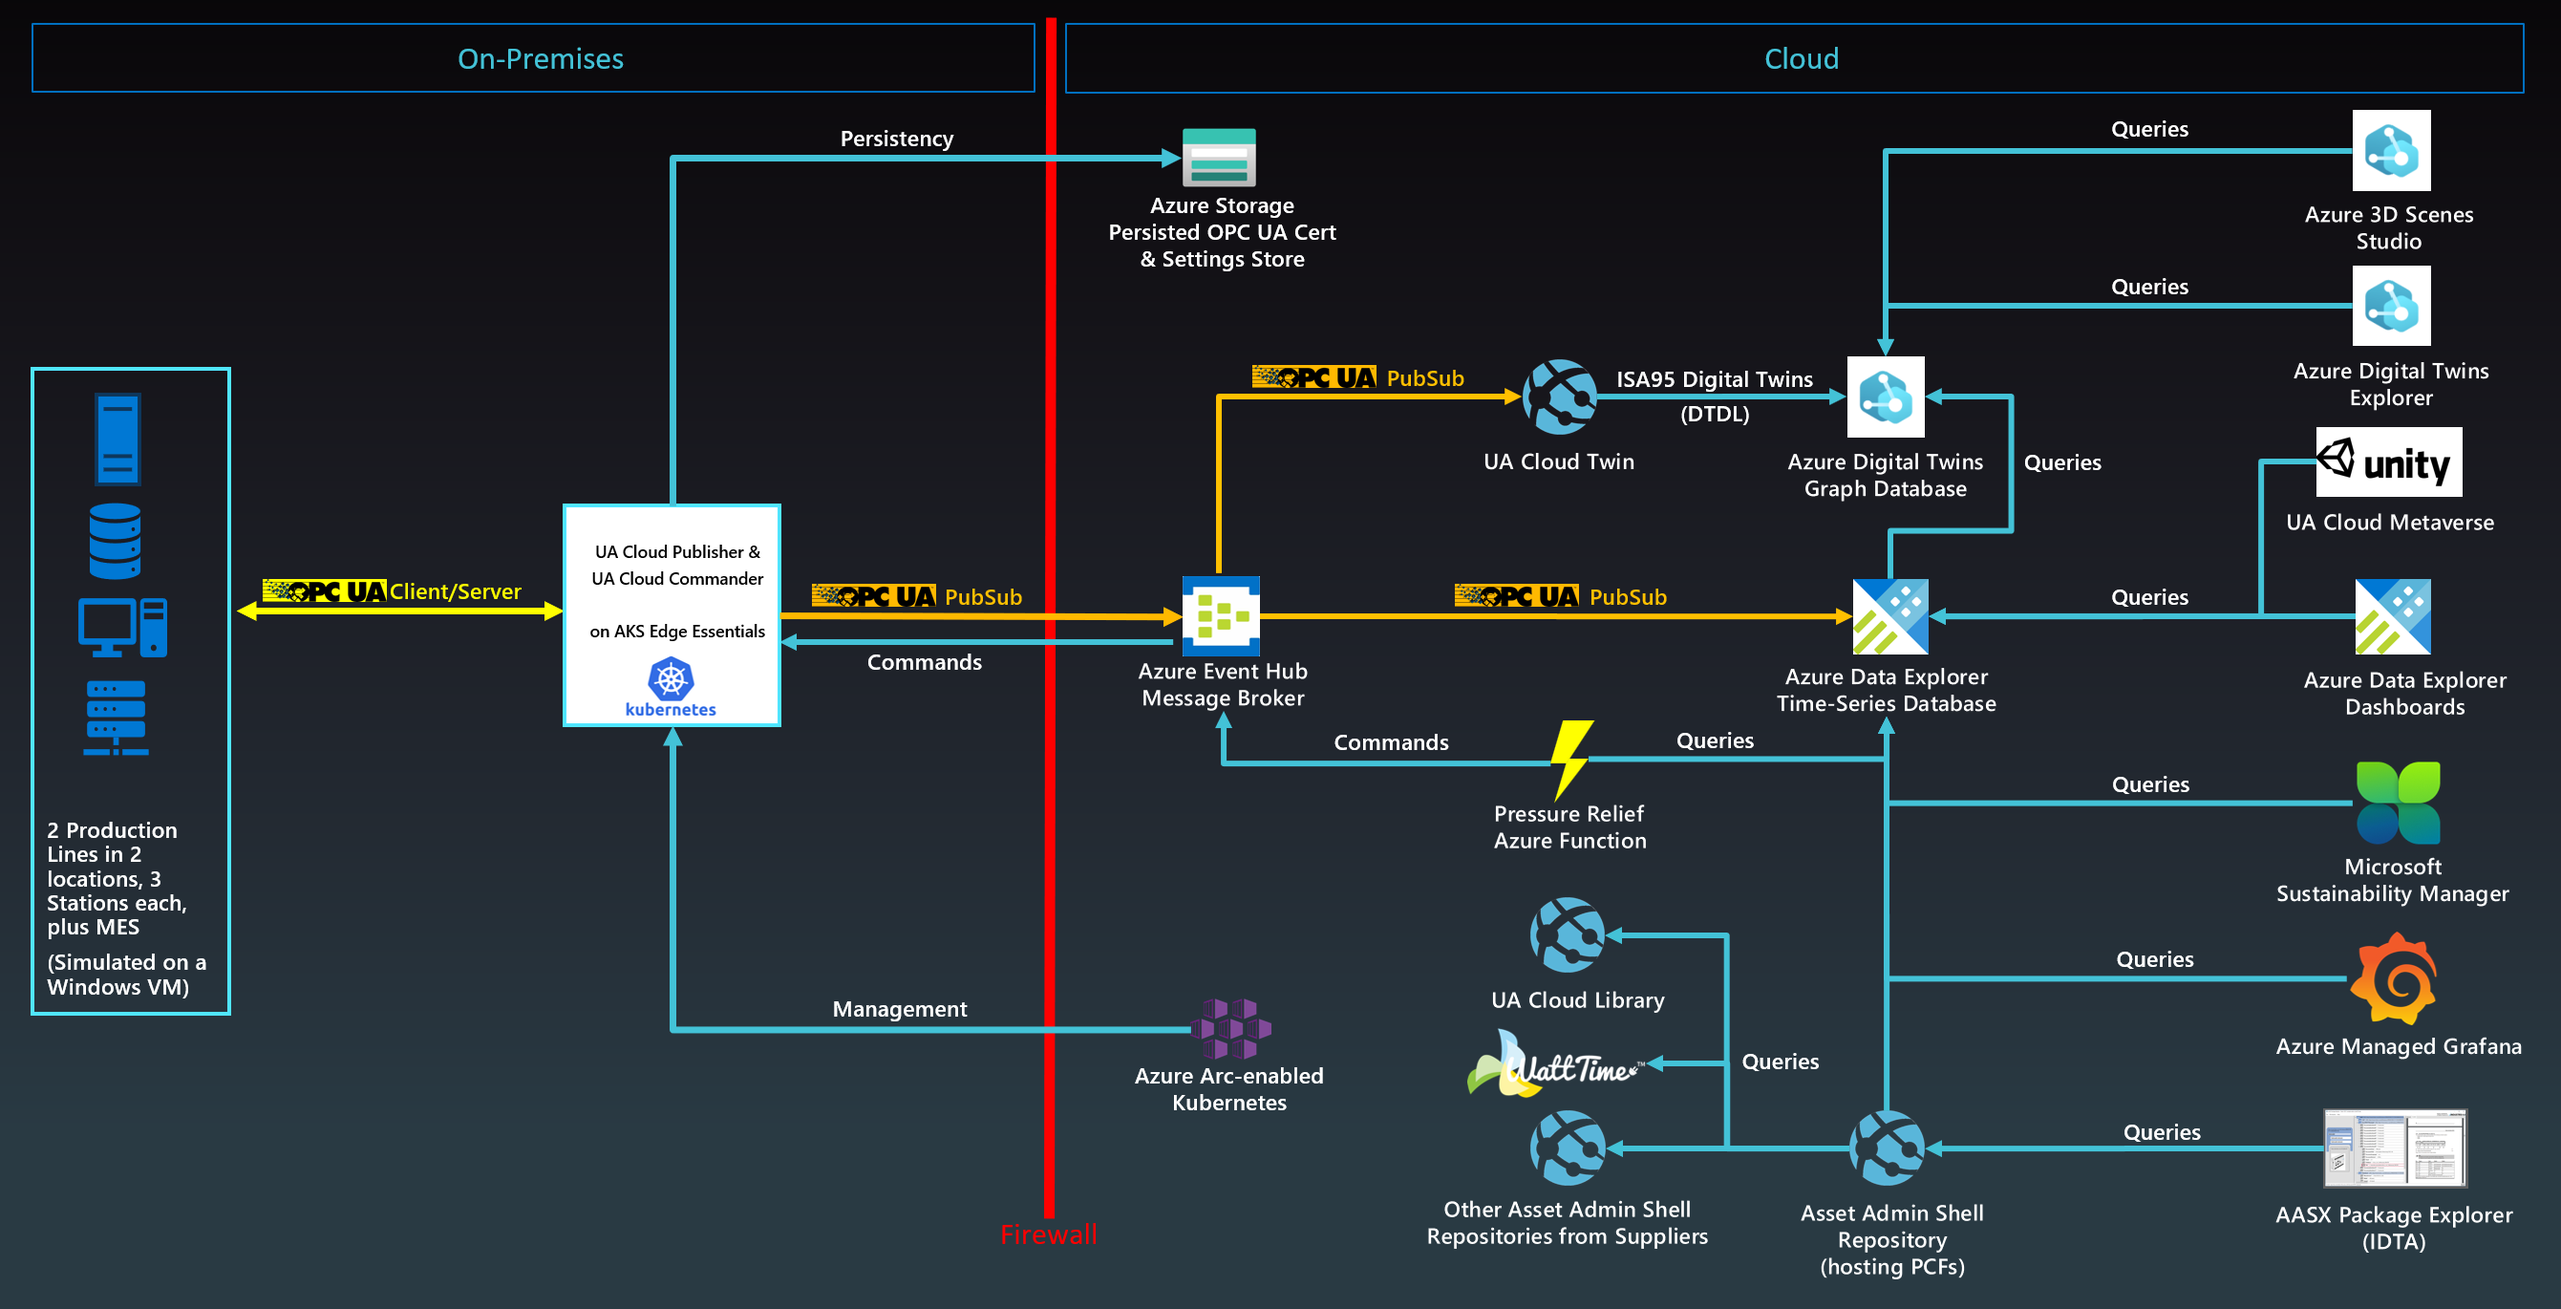
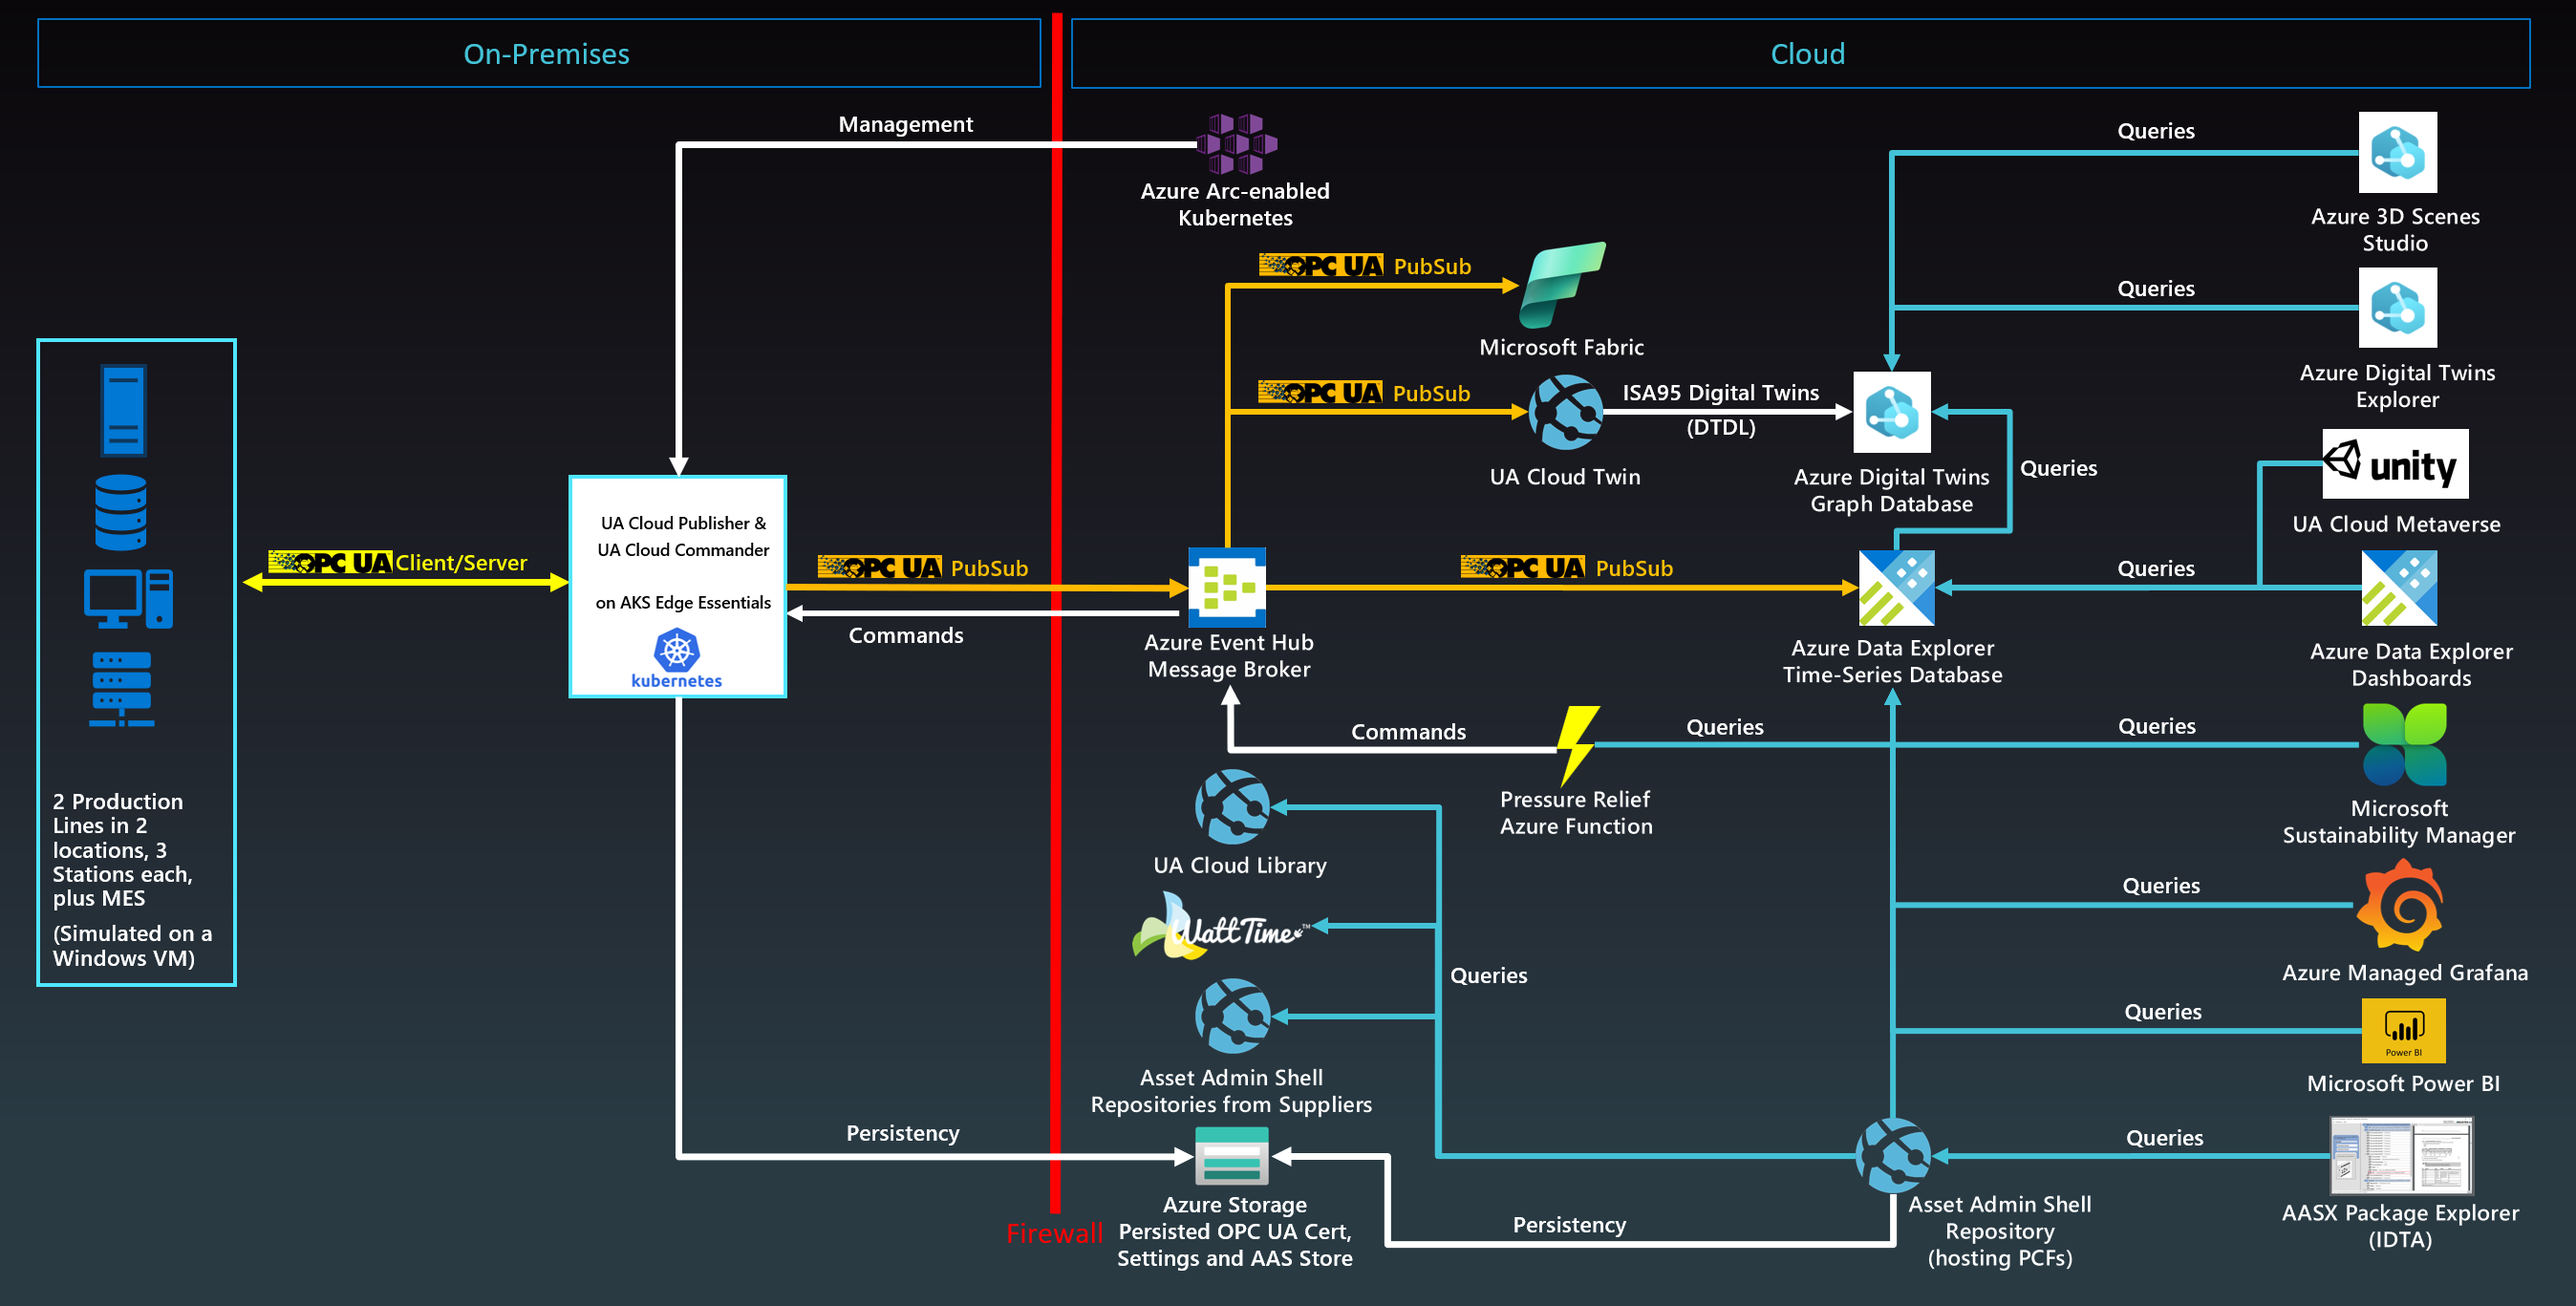
added Power BI and Fabric.

Changed region(s): [[0.0, 0.0307, 0.9907, 0.9832], [0.9597, 0.0, 0.9907, 0.0307], [0.4025, 0.0, 0.4334, 0.0307]]

diff --git a/README.md b/README.md
@@ -52,6 +52,8 @@ Here are the components involved in this solution:
 | [Azure Managed Grafana](https://learn.microsoft.com/en-us/azure/managed-grafana/overview) | Azure Managed Grafana is a data visualization platform built on top of the Grafana software by Grafana Labs. It's built as a fully managed Azure service operated and supported by Microsoft. |
 | [UA Cloud Library](https://github.com/OPCFoundation/UA-CloudLibrary) | The UA Cloud Library is an online store of OPC UA Information Models, hosted by the OPC Foundation [here](https://uacloudlibrary.opcfoundation.org/). |
 | [WattTime Service](https://www.watttime.org/api-documentation/#introduction) | The WattTime service can be used to get the carbon intensity for a unit of electrical energy consumed during a manufacturing process, specific to a particular geographic coordinate passed into the service. |
+| [Microsoft Power BI](https://learn.microsoft.com/en-us/power-bi/fundamentals/power-bi-overview) | Microsoft Power BI is a collection of software services, apps, and connectors that work together to turn your unrelated sources of data into coherent, visually immersive, and interactive insights. |
+| [Microsoft Fabric](https://learn.microsoft.com/en-us/fabric/get-started/microsoft-fabric-overview) | Microsoft Fabric is an all-in-one analytics solution for enterprises that covers everything from data movement to data science, Analytics, and business intelligence. It offers a comprehensive suite of services, including data lake, data engineering, and data integration, all in one place. |
 
 :exclamation: In a real-world deployment, something as critical as opening a pressure relief valve would of course be done on-premises and this is just a simple example of how to achieve the digital feedback loop.
 
@@ -278,6 +280,19 @@ You can now manage your Kubernetes cluster from the cloud via the newly deployed
 The Asset Admin Shell (AAS) Repository is automatically configured during deployment of the reference solution, but for the Product Carbon Footprint (PCF) calculation, a WattTime service account needs to be provided. Please refer to [the WattTime API documentation](https://www.watttime.org/api-documentation/#best-practices-for-api-usage) on how to register for an account. Once your account has been activated, provide your username and password in the settings of the AAS Repo website from the Azure Portal via YourDeploymentName-AAS-Repo -> Configuration -> Application settings.
 
 <img src="Docs/aas.png" alt="aas" width="400" />
+
+
+## Connecting the Reference Solution to Microsoft Power BI
+
+Coming soon!
+
+
+## Connecting the Reference Solution to Microsoft Fabric
+
+1. You can start a Microsoft Fabric trial from [here](https://learn.microsoft.com/en-us/fabric/get-started/fabric-trial).
+1. Once you are logged into Microsoft Fabric, open the Azure Portal, navigate to your Azure Event Hubs Namespace and create a new `fabic` consumer group in both the data and metadata Event Hubs. Also, take a note of the primary key associated with your `RootManageSharedAccessKey` Shared Access Policy of your Event Hubs Namespace. You will need it later in Microsoft Fabric as username and password to connect to the Event Hubs.
+1. Follow the steps described [here](https://learn.microsoft.com/en-us/fabric/real-time-analytics/event-streams/overview) to create Event Streams for both the OPC UA PubSub telemetry data as well as for the OPC UA PubSub metadata, directly from the solution's Event Hubs..
+
 
 ## Replacing the Production Line Simulation with a Real Production Line
 
